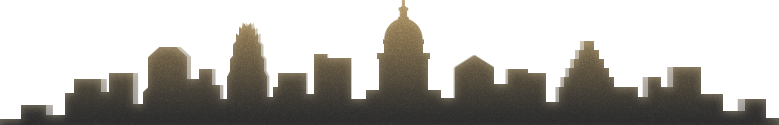
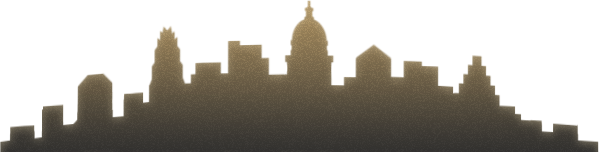
updated header jibber jabber

Changed region(s): [[0.0, 0.0, 0.5409, 0.96], [0.5409, 0.216, 1.0, 1.0]]

diff --git a/index.html b/index.html
@@ -82,31 +82,13 @@
       <div class="holder">
         <div class="slideset">
           <div class="slide slide-1">
-            <h2>Goodybag</h2>
-            <p>Find your next meal!</p>
-            <a href="#facebook-popup-2" class="btn lightbox pre-login">Get Started</a>
-            <a href="#" class="btn get-started-btn post-login hide">Get Started</a>
+            <div class="slide-text-wrapper">
+              <h2>Goodybag</h2>
+              <p>- Let us help decide your next meal -</p>
+            </div>
             <img src="images/slide-1.png" alt="iamge description">
           </div>
-          <div class="slide slide-2">
-            <img src="images/slide-2.png" alt="image description">
-            <div class="frame">
-              <a href="https://itunes.apple.com/ie/app/goodybag/id506924389?mt=8" class="btn">Download the app</a>
-              <p>Explore, collect and earn rewards with our new app!</p>
-              <a href="https://itunes.apple.com/ie/app/goodybag/id506924389?mt=8" class="app-store">Available on the App Store</a>
-            </div>
-          </div>
-          <div class="slide slide-3">
-            <img src="images/slide-3.png" alt="image description">
-            <div class="frame">
-              <h2>Check out the <strong>Instore tablet</strong></h2>
-              <p>Earn rewards and browse<br>featured items around town!</p>
-              <a href="locations.html" class="btn">View Locations</a>
-            </div>
-          </div>
         </div>
-        <a href="#" class="btn-prev">prev</a>
-        <a href="#" class="btn-next">next</a>
       </div>
     </div>
     <section id="main">

diff --git a/css/all.css b/css/all.css
@@ -399,7 +399,7 @@ button::-moz-focus-inner{
 	width:1258px;
 	margin:0 auto;
 	overflow:hidden;
-	height:390px;
+	height:172px;
 }
 .gallery .btn-prev,
 .gallery .btn-next{
@@ -436,15 +436,23 @@ button::-moz-focus-inner{
 	text-align:center;
 }
 .gallery .slide-1 h2{
-	text-align:center;
-	font-size:74px;
-	line-height:80px;
-	font-weight:normal;
-	color:#29bae6;
-	margin:56px 0 4px;
-	text-shadow:0 1px 1px rgba(0,0,0,0.9);
+	text-align: center;
+	font-size: 48px;
+	line-height: 80px;
+	color: #00CDFA;
+	margin: 79px 0 4px;
+	text-shadow: 0 1px 1px rgba(0, 0, 0, 0.7);
+	font-weight: 100;
+	text-transform: uppercase;
+	letter-spacing: -1px;
 }
-.gallery .slide-1 p{margin:0 0 19px;}
+.gallery .slide-1 p{
+	margin-top: -25px;
+	color: #F5EAD7;
+	font-size: 16px;
+	text-shadow: 0 1px 1px rgba(0, 0, 0, 0.6);
+	font-weight: 300;
+}
 .gallery .btn{
 	display:block;
 	width:242px;
@@ -483,7 +491,8 @@ button::-moz-focus-inner{
 .gallery .slide-1 img{
 	position:absolute;
 	bottom:0;
-	left:226px;
+	left: 50%;
+	margin-left: -300px;
 }
 .gallery .slide-2 .btn{
 	width:262px;
@@ -1573,4 +1582,11 @@ input.error {
   position: absolute;
   top: 0;
   left: 191px;
+}
+
+.slide-text-wrapper {
+	position: absolute;
+	width: 100%;
+	height: 100%;
+	z-index: 2;
 }

diff --git a/js/jquery.main.js b/js/jquery.main.js
@@ -1,6 +1,6 @@
 // page init
 jQuery(function(){
-	initCarousel();
+	// initCarousel();
 	initSlideBlocks();
 	initInputs();
 	initLightbox();
